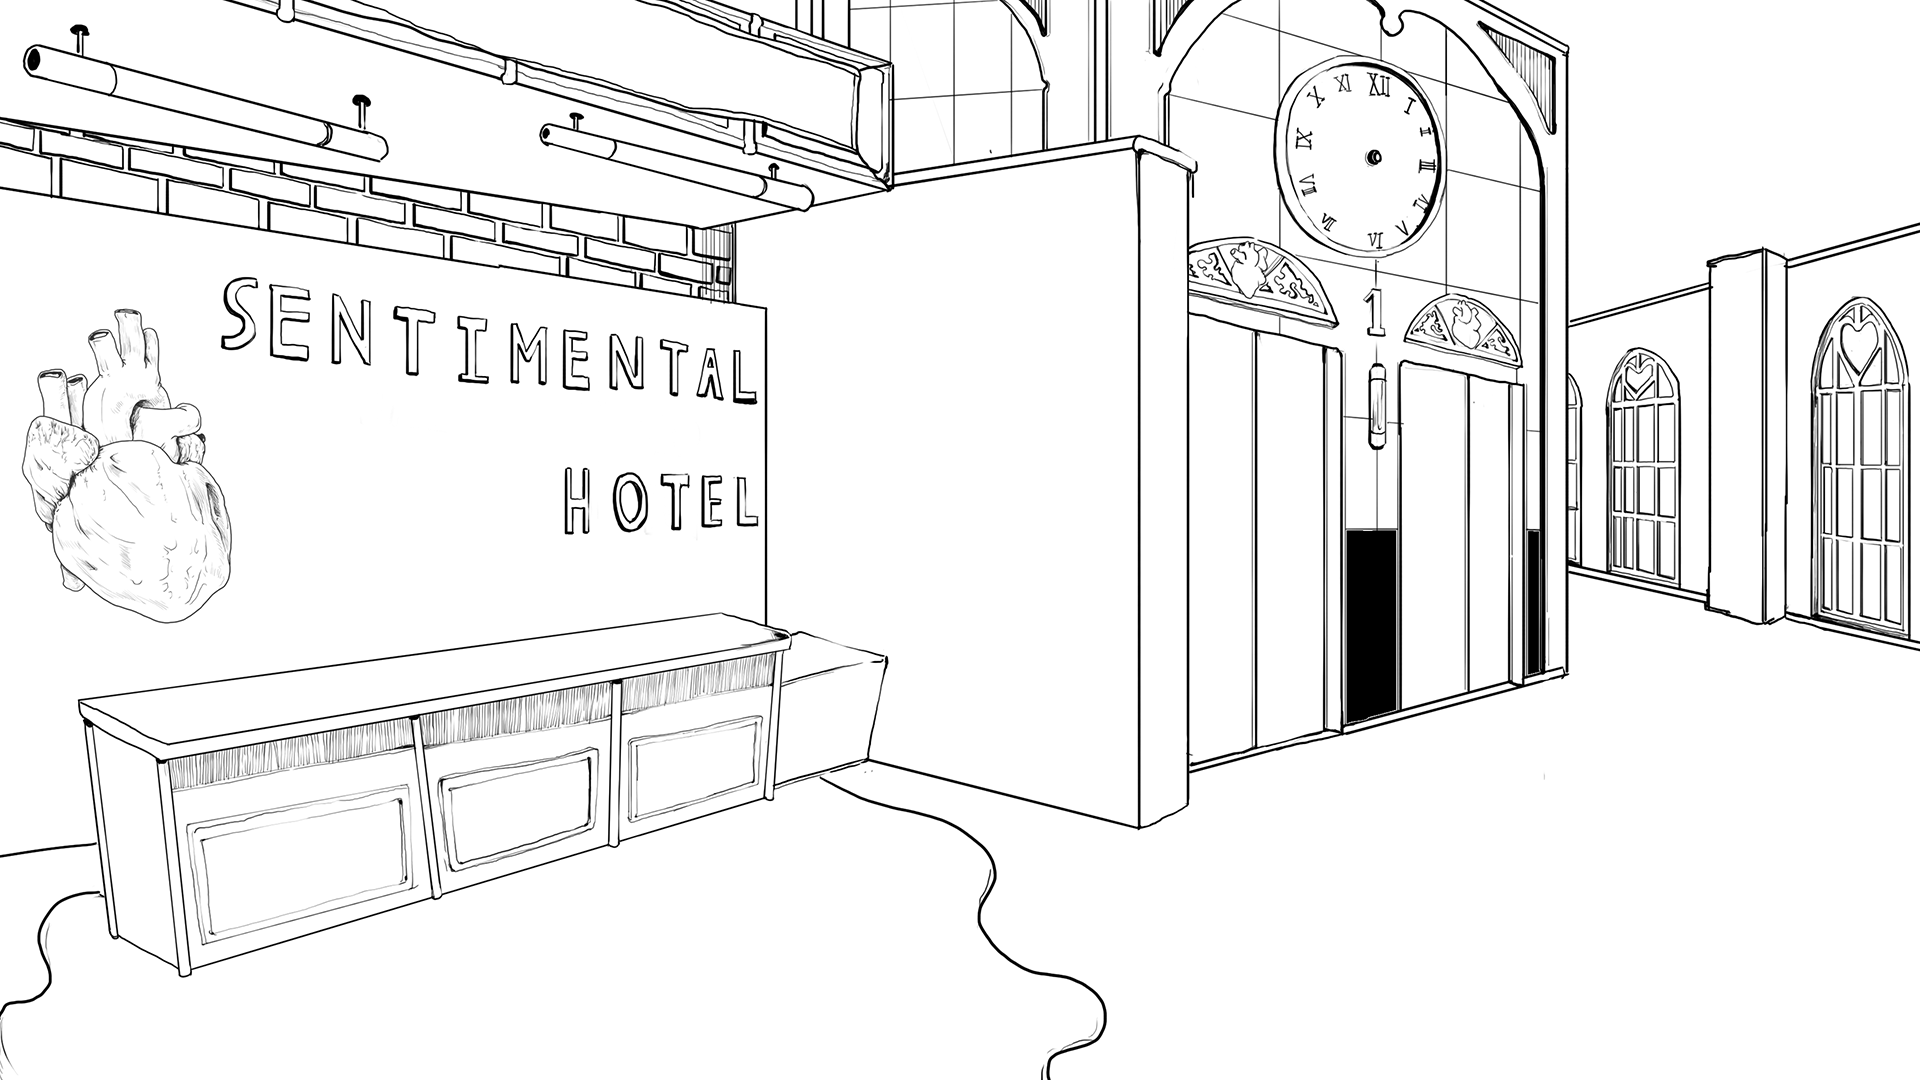
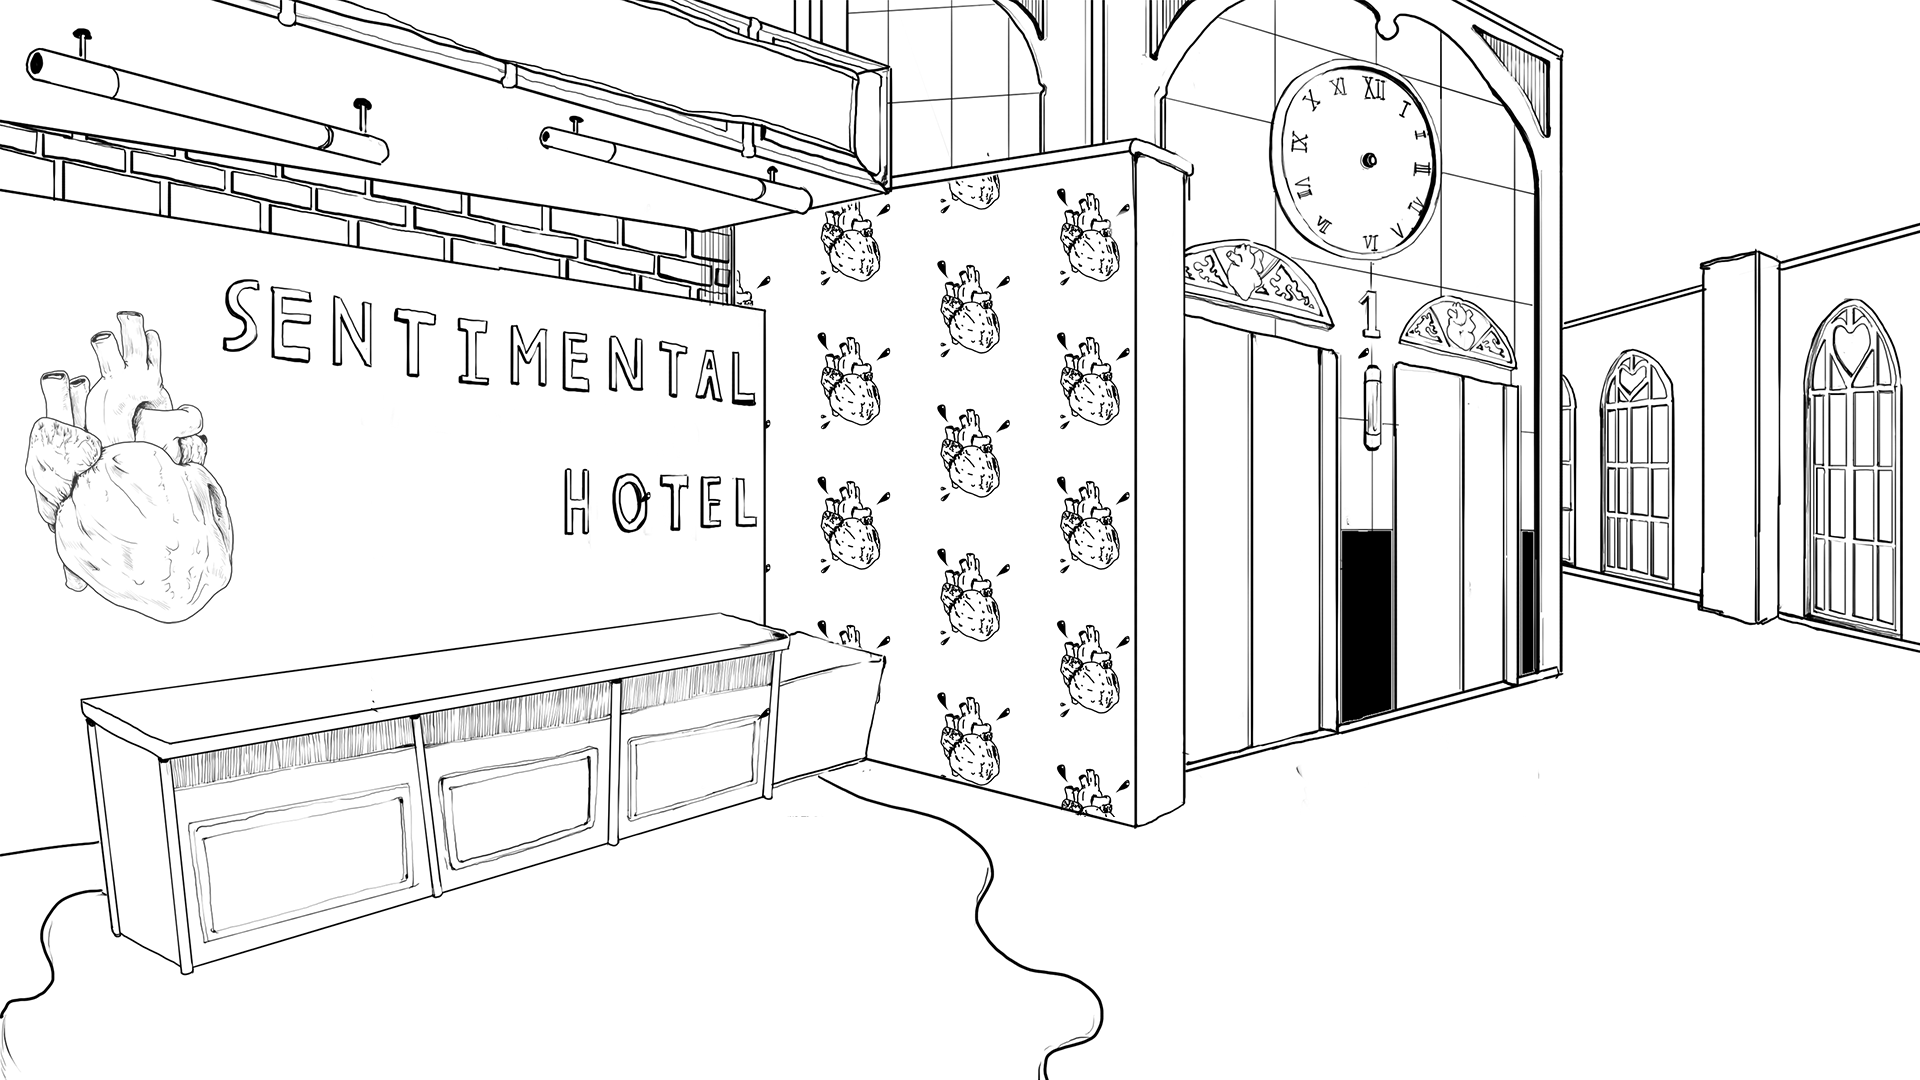
main lobby popup added

diff --git a/style.css b/style.css
@@ -1,5 +1,6 @@
 @charset "UTF-8";
 
+
 /*-------------------------index page--------------------------*/
 
 .intro-container {
@@ -44,7 +45,7 @@
 
 
 
-/*-----------------------lobby page--------------------------*/
+/*-----------------------horizontal scrolling--------------------------*/
 
 .scrolling-wrapper {
     white-space: nowrap;
@@ -73,44 +74,68 @@
 
 /*****height: 56.25vw****/
 
-.main-lobby .link {
+.main-lobby__check-in a:hover + .main-lobby__check-in__balloon, .main-lobby__guests a:hover + .main-lobby__guests__balloon, .main-lobby__elevator a:hover + .main-lobby__elevator__balloon, .main-lobby__about a:hover + .main-lobby__about__balloon {
+    opacity: 1;
+}
+
+.main-lobby__check-in__gif {
     position: absolute;
+    width: 19vw;
+    top: 23vw;
+    left: 13vw;
 }
 
-.main-lobby .story {
-    top: 20.6vw;
-    left: 12%;
+.main-lobby__check-in__balloon {
+    position: absolute;
+    width: 8vw;
+    top: 17vw;
+    left: 6vw;
+    opacity: 0;
 }
 
-.main-lobby .story img {
-    width: 20vw;
-}
-
-.main-lobby .cast {
+.main-lobby__guests__gif {
+    position: absolute;
+    width: 19vw;
     top: 10vw;
-    left: 39%;
+    left: 39vw;
 }
 
-.main-lobby .cast img {
-    width: 20vw;
+.main-lobby__guests__balloon {
+    position: absolute;
+    width: 8vw;
+    top: 9vw;
+    left: 36vw;
+    opacity: 0;
 }
 
-.main-lobby .room {
-    top: 15vw;
-    left: 70%;
-}
-
-.main-lobby .room img {
-    width: 15vw;
-}
-
-.main-lobby .about {
+.main-lobby__elevator__gif {
+    position: absolute;
+    width: 7vw;
     top: 22vw;
-    left: 88%;
+    left: 71vw;
 }
 
-.main-lobby .about img {
-    width: 12vw;
+.main-lobby__elevator__balloon {
+    position: absolute;
+    width: 22vw;
+    top: 14.5vw;
+    left: 71vw;
+    opacity: 0;
+}
+
+.main-lobby__about__img {
+    position: absolute;
+    width: 6vw;
+    top: 27vw;
+    left: 89vw;
+}
+
+.main-lobby__about__balloon {
+    position: absolute;
+    width: 6vw;
+    top: 23.5vw;
+    left: 86vw;
+    opacity: 0;
 }
 
 
@@ -194,6 +219,15 @@
 
 
 /*--------------------------guests--------------------------*/
+
+.guests-back-btn {
+    color: white;
+    font-size: 4vw;
+    position: fixed;
+    top: 3vw;
+    left: 3vw;
+}
+
 .guest-frames {
     background-image: url(img/guests/frames_wallpaper.png);
     background-position: top;
@@ -372,8 +406,8 @@
 .close {
     color: #aaa;
     position: absolute;
-    top: 1%;
-    right: 1%;
+    top: 3%;
+    right: 2%;
     font-size: 5vw;
     z-index: 10;
     line-height: 0.5;
@@ -393,6 +427,16 @@
 
 
 /*------------------elevator--------------------*/
+
+.elevator-back-btn {
+    color: #000000;
+    font-size: 4vw;
+    position: fixed;
+    top: 3vw;
+    left: 3vw;
+    z-index: 150;
+}
+
 .elevator {
     background-image: url(img/elevator/elevator_entrance.png);
     background-position: top;
@@ -405,19 +449,19 @@
 .elevator .entrance {
     position: absolute;
     width: 100vw;
-    z-index: 1000;
+    z-index: 30;
 }
 
 .elevator .inside {
     position: absolute;
     width: 100vw;
-    z-index: 100;
+    z-index: 10;
 }
 
 .elevator .bellboy {
     position: absolute;
     height: 56.25vw;
-    z-index: 1500;
+    z-index: 100;
     left: 67%;
 }
 
@@ -430,7 +474,7 @@
     position: absolute;
     top: 9vw;
     left: 37%;
-    z-index: 1100;
+    z-index: 90;
     animation-duration: 0.75s;
     animation-name: bounceIn;
     animation-play-state: paused;
@@ -440,7 +484,7 @@
     position: absolute;
     top: 17vw;
     left: 52%;
-    z-index: 1100;
+    z-index: 90;
     animation-duration: 0.75s;
     animation-name: bounceIn;
     animation-play-state: paused;
@@ -450,7 +494,7 @@
 .elevator .door {
     position: absolute;
     width: 11.8vw;
-    z-index: 500;
+    z-index: 20;
     top: 15vw;
 }
 
@@ -478,7 +522,7 @@
 /*-----links-----*/
 
 .elevator .block {
-    z-index: 2000;
+    z-index: 110;
     width: 28vw;
     height: 39vw;
     top: 13vw;
@@ -560,7 +604,3 @@
         transform: scale3d(1, 1, 1);
     }
 }
-
-h1 {}
-
-

diff --git a/main-lobby.html b/main-lobby.html
@@ -14,26 +14,50 @@
 <body>
 
     <section class="main-lobby">
-        <div class="story link">
-            <a href="check-in.html">
-                <img src="img/main_lobby/story.png">
+        
+        <div class="main-lobby__check-in">
+            
+            <a href="check-in.html" title="체크인 하기">
+                <img class="main-lobby__check-in__gif" src="img/main_lobby/check_in.gif">
             </a>
+            
+            <img class="main-lobby__check-in__balloon" src="img/main_lobby/check_in_word.png">
+            
         </div>
-        <div class="cast link">
-            <a href="guests.html">
-                <img src="img/main_lobby/cast.png">
+        
+        
+        <div class="main-lobby__guests">
+            
+            <a href="guests.html" title="투숙객 보기">
+                <img class="main-lobby__guests__gif" src="img/main_lobby/guests.gif">
             </a>
+            
+            <img class="main-lobby__guests__balloon" src="img/main_lobby/guests_balloon.png">
+            
         </div>
-        <div class="room link">
-            <a href="elevator.html">
-                <img src="img/main_lobby/room.png">
+        
+        
+        <div class="main-lobby__elevator">
+            
+            <a href="elevator.html" title="2층으로 가기">
+                <img class="main-lobby__elevator__gif" src="img/main_lobby/elevator.gif">
             </a>
+            
+            <img class="main-lobby__elevator__balloon" src="img/main_lobby/elevator_balloon.png">
+            
         </div>
-        <div class="about link">
-            <a href="#">
-                <img src="img/main_lobby/about.png">
+        
+
+        <div class="main-lobby__about">
+            
+            <a href="#" title="???">
+                <img class="main-lobby__about__img" src="img/main_lobby/about.png">
             </a>
+            
+            <img class="main-lobby__about__balloon" src="img/main_lobby/about_balloon.png">
+            
         </div>
+        
     </section>
 
 

diff --git a/guests.html b/guests.html
@@ -7,15 +7,18 @@
     <meta name="viewport" content="width = device-width, initial-scale = 1.0">
     <link rel="stylesheet" type="text/css" href="style.css">
     <link rel="stylesheet" type="text/css" href="reset.css">
+    <script src="https://kit.fontawesome.com/296406b34b.js"></script>
     <script src="https://ajax.googleapis.com/ajax/libs/jquery/3.4.0/jquery.min.js"></script>
     <link href="https://fonts.googleapis.com/css?family=Nanum+Myeongjo:400,700&display=swap&subset=korean" rel="stylesheet">
     
-    <title>주요 고객 정보</title>
+    <title>센티멘탈 호텔 주요 고객 정보</title>
     
 </head>
 
 <body>
     <section class="guests">
+        
+        <a href="main-lobby.html" title="메인 로비로 돌아가기"><i class="fas fa-arrow-left guests-back-btn"></i></a>
         
     <div class="guest-frames">
         

diff --git a/index.html b/index.html
@@ -10,7 +10,7 @@
     <link href="https://maxcdn.bootstrapcdn.com/font-awesome/4.7.0/css/font-awesome.min.css" rel="stylesheet">
     <script src="https://cdnjs.cloudflare.com/ajax/libs/magnific-popup.js/1.0.0/jquery.magnific-popup.min.js"></script>
     
-    <title>센티멘탈 호텔</title>
+    <title>센티멘탈 호텔에 오신 것을 환영합니다 || SENTIMENTAL HOTEL</title>
     
 </head>
 <body>
@@ -19,7 +19,7 @@
             <div class="hotel-exterior"></div>
 
             <div class="main-entrance">
-                <a href="#videoStory" class="button more" id="videoLink">
+                <a href="#videoStory" class="button more" id="videoLink" title="호텔로 들어가기">
                     <img src="img/main_entrance.png">
                 </a>
             </div>

diff --git a/elevator.html b/elevator.html
@@ -6,6 +6,7 @@
     <meta name="viewport" content="width = device-width, initial-scale = 1.0">
     <link rel="stylesheet" type="text/css" href="style.css">
     <link rel="stylesheet" type="text/css" href="reset.css">
+    <script src="https://kit.fontawesome.com/296406b34b.js"></script>
     <link href="https://fonts.googleapis.com/css?family=Nanum+Myeongjo&display=swap" rel="stylesheet">
     <title>1층 엘리베이터</title>
 </head>
@@ -13,7 +14,9 @@
 <body>
 
     <section class="elevator" id="elevator">
-
+        
+        <a href="main-lobby.html" title="메인 로비로 돌아가기"><i class="fas fa-arrow-left elevator-back-btn"></i></a>
+        
         <!--links-->
         <a class="left-block-link" href="2F.html">
             <div class="left block"></div>

diff --git a/2F.html b/2F.html
@@ -16,7 +16,7 @@
 <body>
     
     <!--Preloader-->
-<!--    <div id="preloader" class="preloader">
+    <div id="preloader" class="preloader">
         <div class="preloader__circle"></div>
         <div id="preloader_animation" class="preloader__chain">
             <img src="img/loading/chain2.png">
@@ -27,7 +27,7 @@
         <div class="preloader__text">
             <p>Loading...</p>
         </div>
-    </div>-->
+    </div>
 
     <section class="hallway">
         
